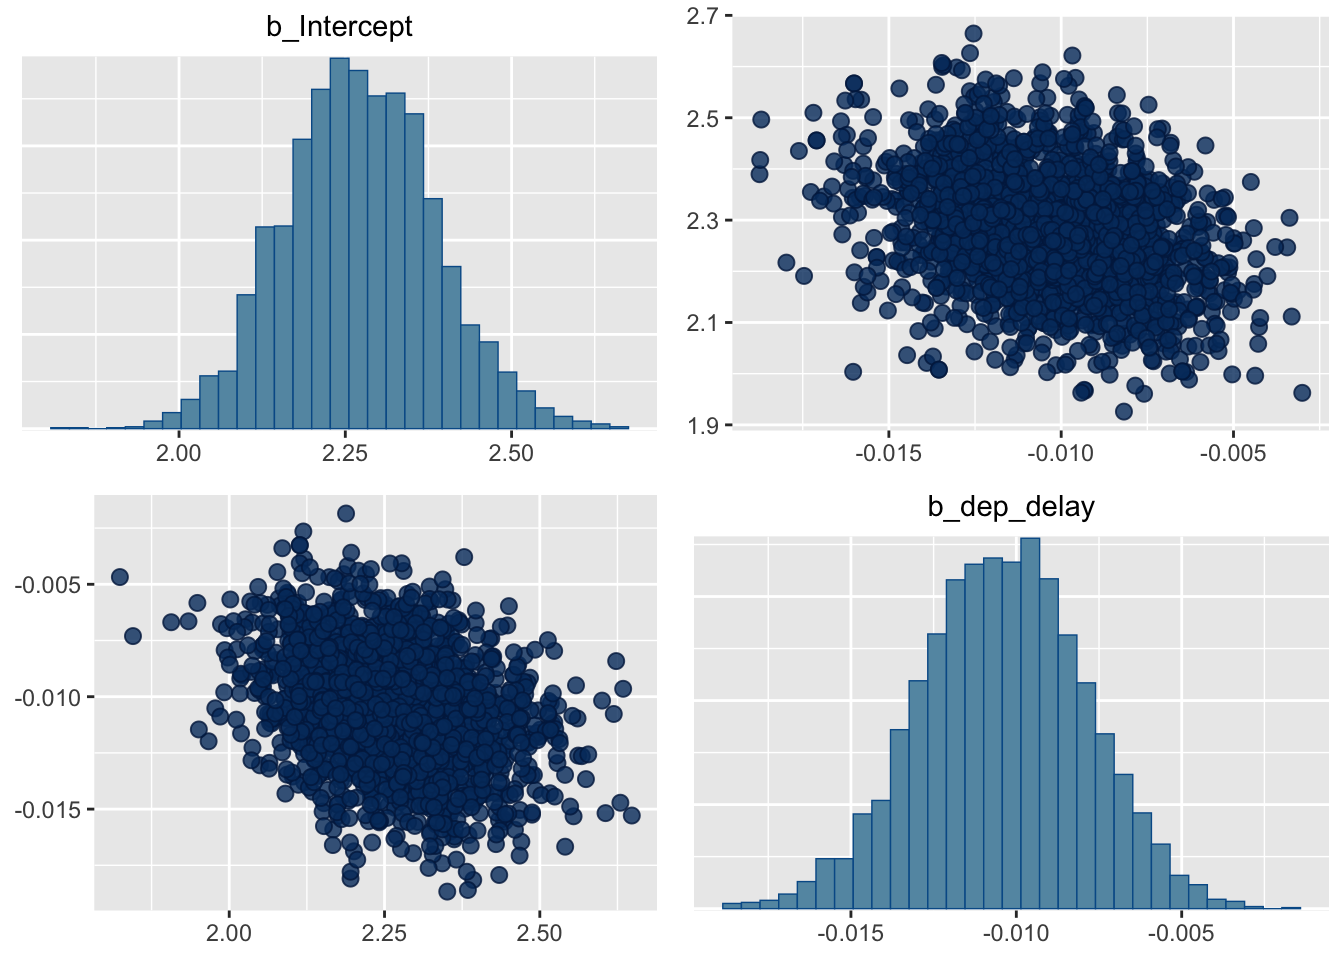
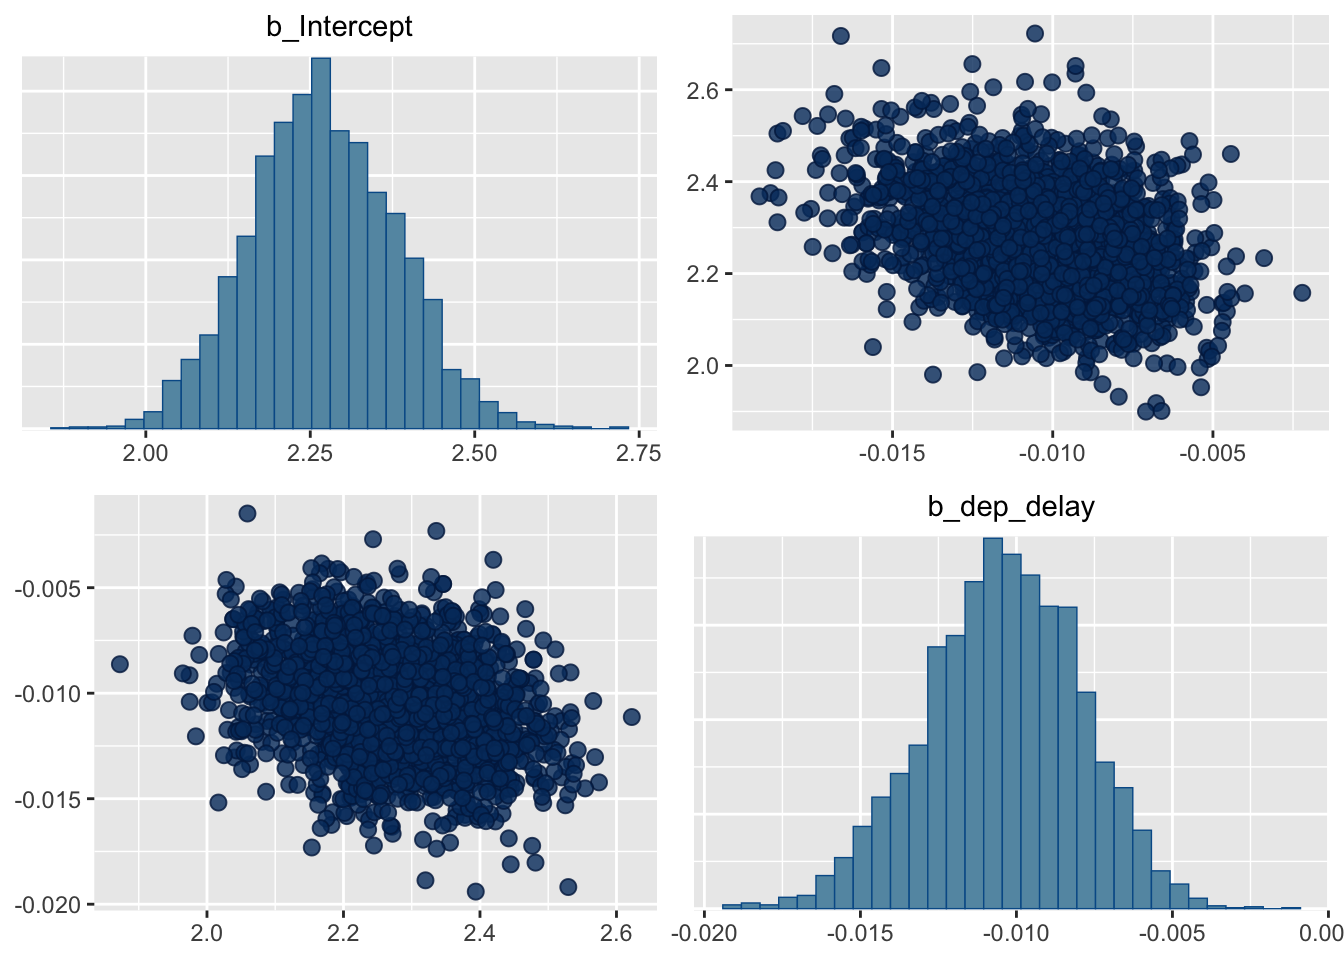
resume works thank god

diff --git a/docs/posts/first-post/index.html b/docs/posts/first-post/index.html
@@ -344,7 +344,7 @@ The following object is masked from 'package:dplyr':
 <span id="cb18-7"><a href="#cb18-7" aria-hidden="true" tabindex="-1"></a>  <span class="fu">labs</span>(<span class="at">x =</span> <span class="st">"Departure Delay (minutes)"</span>, <span class="at">y =</span> <span class="st">"Predicted Satisfaction"</span>,</span>
 <span id="cb18-8"><a href="#cb18-8" aria-hidden="true" tabindex="-1"></a>       <span class="at">title =</span> <span class="st">"Prior Predictive Distribution of Satisfaction"</span>)</span></code><button title="Copy to Clipboard" class="code-copy-button"><i class="bi"></i></button></pre></div>
 <div class="cell-output cell-output-stderr">
-<pre><code>Warning: Removed 295 rows containing missing values or values outside the scale range
+<pre><code>Warning: Removed 272 rows containing missing values or values outside the scale range
 (`geom_point()`).</code></pre>
 </div>
 <div class="cell-output-display">
@@ -393,8 +393,8 @@ Formula: satisfaction ~ dep_delay
 
 Regression Coefficients:
           Estimate Est.Error l-95% CI u-95% CI Rhat Bulk_ESS Tail_ESS
-Intercept     2.26      0.11     2.05     2.47 1.00     1559     2120
-dep_delay    -0.01      0.00    -0.02    -0.01 1.00     3849     2945
+Intercept     2.27      0.11     2.06     2.50 1.00     1179     1735
+dep_delay    -0.01      0.00    -0.02    -0.01 1.00     3871     2933
 
 Draws were sampled using sampling(NUTS). For each parameter, Bulk_ESS
 and Tail_ESS are effective sample size measures, and Rhat is the potential
@@ -414,11 +414,11 @@ scale reduction factor on split chains (at convergence, Rhat = 1).</code></pre>
 <span id="cb29-2"><a href="#cb29-2" aria-hidden="true" tabindex="-1"></a><span class="fu">print</span>(ci)</span></code><button title="Copy to Clipboard" class="code-copy-button"><i class="bi"></i></button></pre></div>
 <div class="cell-output cell-output-stdout">
 <pre><code>                 Estimate   Est.Error          Q2.5         Q97.5
-b_Intercept    2.25997430 0.106894793    2.04862559  2.473527e+00
-b_dep_delay   -0.01045203 0.002355074   -0.01501899 -5.908706e-03
-Intercept      2.16695122 0.102252579    1.96801279  2.370360e+00
-lprior        -2.36469906 0.037773476   -2.44138358 -2.292733e+00
-lp__        -332.32452595 0.944575105 -334.85667046 -3.314094e+02</code></pre>
+b_Intercept    2.26958305 0.111966195    2.05524632  2.502076e+00
+b_dep_delay   -0.01047574 0.002408192   -0.01513133 -5.906598e-03
+Intercept      2.17634896 0.107142421    1.96766324  2.395174e+00
+lprior        -2.36822434 0.039766102   -2.45106544 -2.292611e+00
+lp__        -332.38638692 1.045709591 -335.19875519 -3.314048e+02</code></pre>
 </div>
 </div>
 </section>
@@ -479,8 +479,8 @@ Formula: satisfaction ~ dep_delay
 
 Regression Coefficients:
           Estimate Est.Error l-95% CI u-95% CI Rhat Bulk_ESS Tail_ESS
-Intercept     2.27      0.11     2.05     2.50 1.00     1218     1698
-dep_delay    -0.01      0.00    -0.02    -0.01 1.00     3756     2733
+Intercept     2.27      0.11     2.06     2.49 1.00     1741     2071
+dep_delay    -0.01      0.00    -0.02    -0.01 1.00     3347     2582
 
 Draws were sampled using sampling(NUTS). For each parameter, Bulk_ESS
 and Tail_ESS are effective sample size measures, and Rhat is the potential
@@ -504,11 +504,11 @@ scale reduction factor on split chains (at convergence, Rhat = 1).</code></pre>
 <span id="cb40-2"><a href="#cb40-2" aria-hidden="true" tabindex="-1"></a><span class="fu">print</span>(ci)</span></code><button title="Copy to Clipboard" class="code-copy-button"><i class="bi"></i></button></pre></div>
 <div class="cell-output cell-output-stdout">
 <pre><code>                 Estimate   Est.Error          Q2.5         Q97.5
-b_Intercept    2.27151778 0.113490208    2.05463989  2.501131e+00
-b_dep_delay   -0.01043651 0.002515581   -0.01557144 -5.667569e-03
-Intercept      2.17863287 0.108450031    1.97143907  2.397745e+00
-lprior        -4.85741474 0.002370920   -4.86236652 -4.853060e+00
-lp__        -334.93306647 1.047621997 -337.74442437 -3.339055e+02</code></pre>
+b_Intercept    2.26995012 0.111239116    2.05624433  2.491284e+00
+b_dep_delay   -0.01043287 0.002501982   -0.01560002 -5.867454e-03
+Intercept      2.17709757 0.106051296    1.97613741  2.387037e+00
+lprior        -4.85737872 0.002317320   -4.86212455 -4.853144e+00
+lp__        -334.90143595 1.032939173 -337.60166201 -3.338944e+02</code></pre>
 </div>
 </div>
 <p>After setting our own priors for our model, we got results that we the same. The $\beta_0$ value was the exact same of 2.27. The $\beta_1$ values or the slope, were the exact same at -0.01. The 95% credible interval for the intercept is approximately [2.06, 2.48], indicating that we are 95% confident that the true intercept lies within this range. This was pretty much the same as the 95% confidence interval for brm’s priors that was [2.06, 2.49]. The 95% credible interval for `dep_delay` is approximately [-0.016, -0.006], there is a 95% probability that the true value from dep_delay is within the interval. This is sightly different from the 95% credible interval for brm’s priors that was [-0.010, 0.003]. This is probably because brm chose a flat prior for the slope, but we picked one that included some prior knowledge on the slope. Overall, the prior had very little influence on the posterior distribution. So the model is not very sensitivity to the prior.</p>

diff --git a/docs/index.html b/docs/index.html
@@ -119,7 +119,7 @@ ul.task-list li input[type="checkbox"] {
     <i class="bi bi-linkedin"></i>
      <span class="about-link-text">LinkedIn</span>
   </a>
-  <a href="/jgarc521.github.io/Website/files/JoseGarcia_Resume.pdf" class="about-link">
+  <a href="/files/JoseGarcia_Resume.pdf" class="about-link">
     <i class="bi bi-file-earmark-pdf-fill"></i>
      <span class="about-link-text">Resume</span>
   </a>
